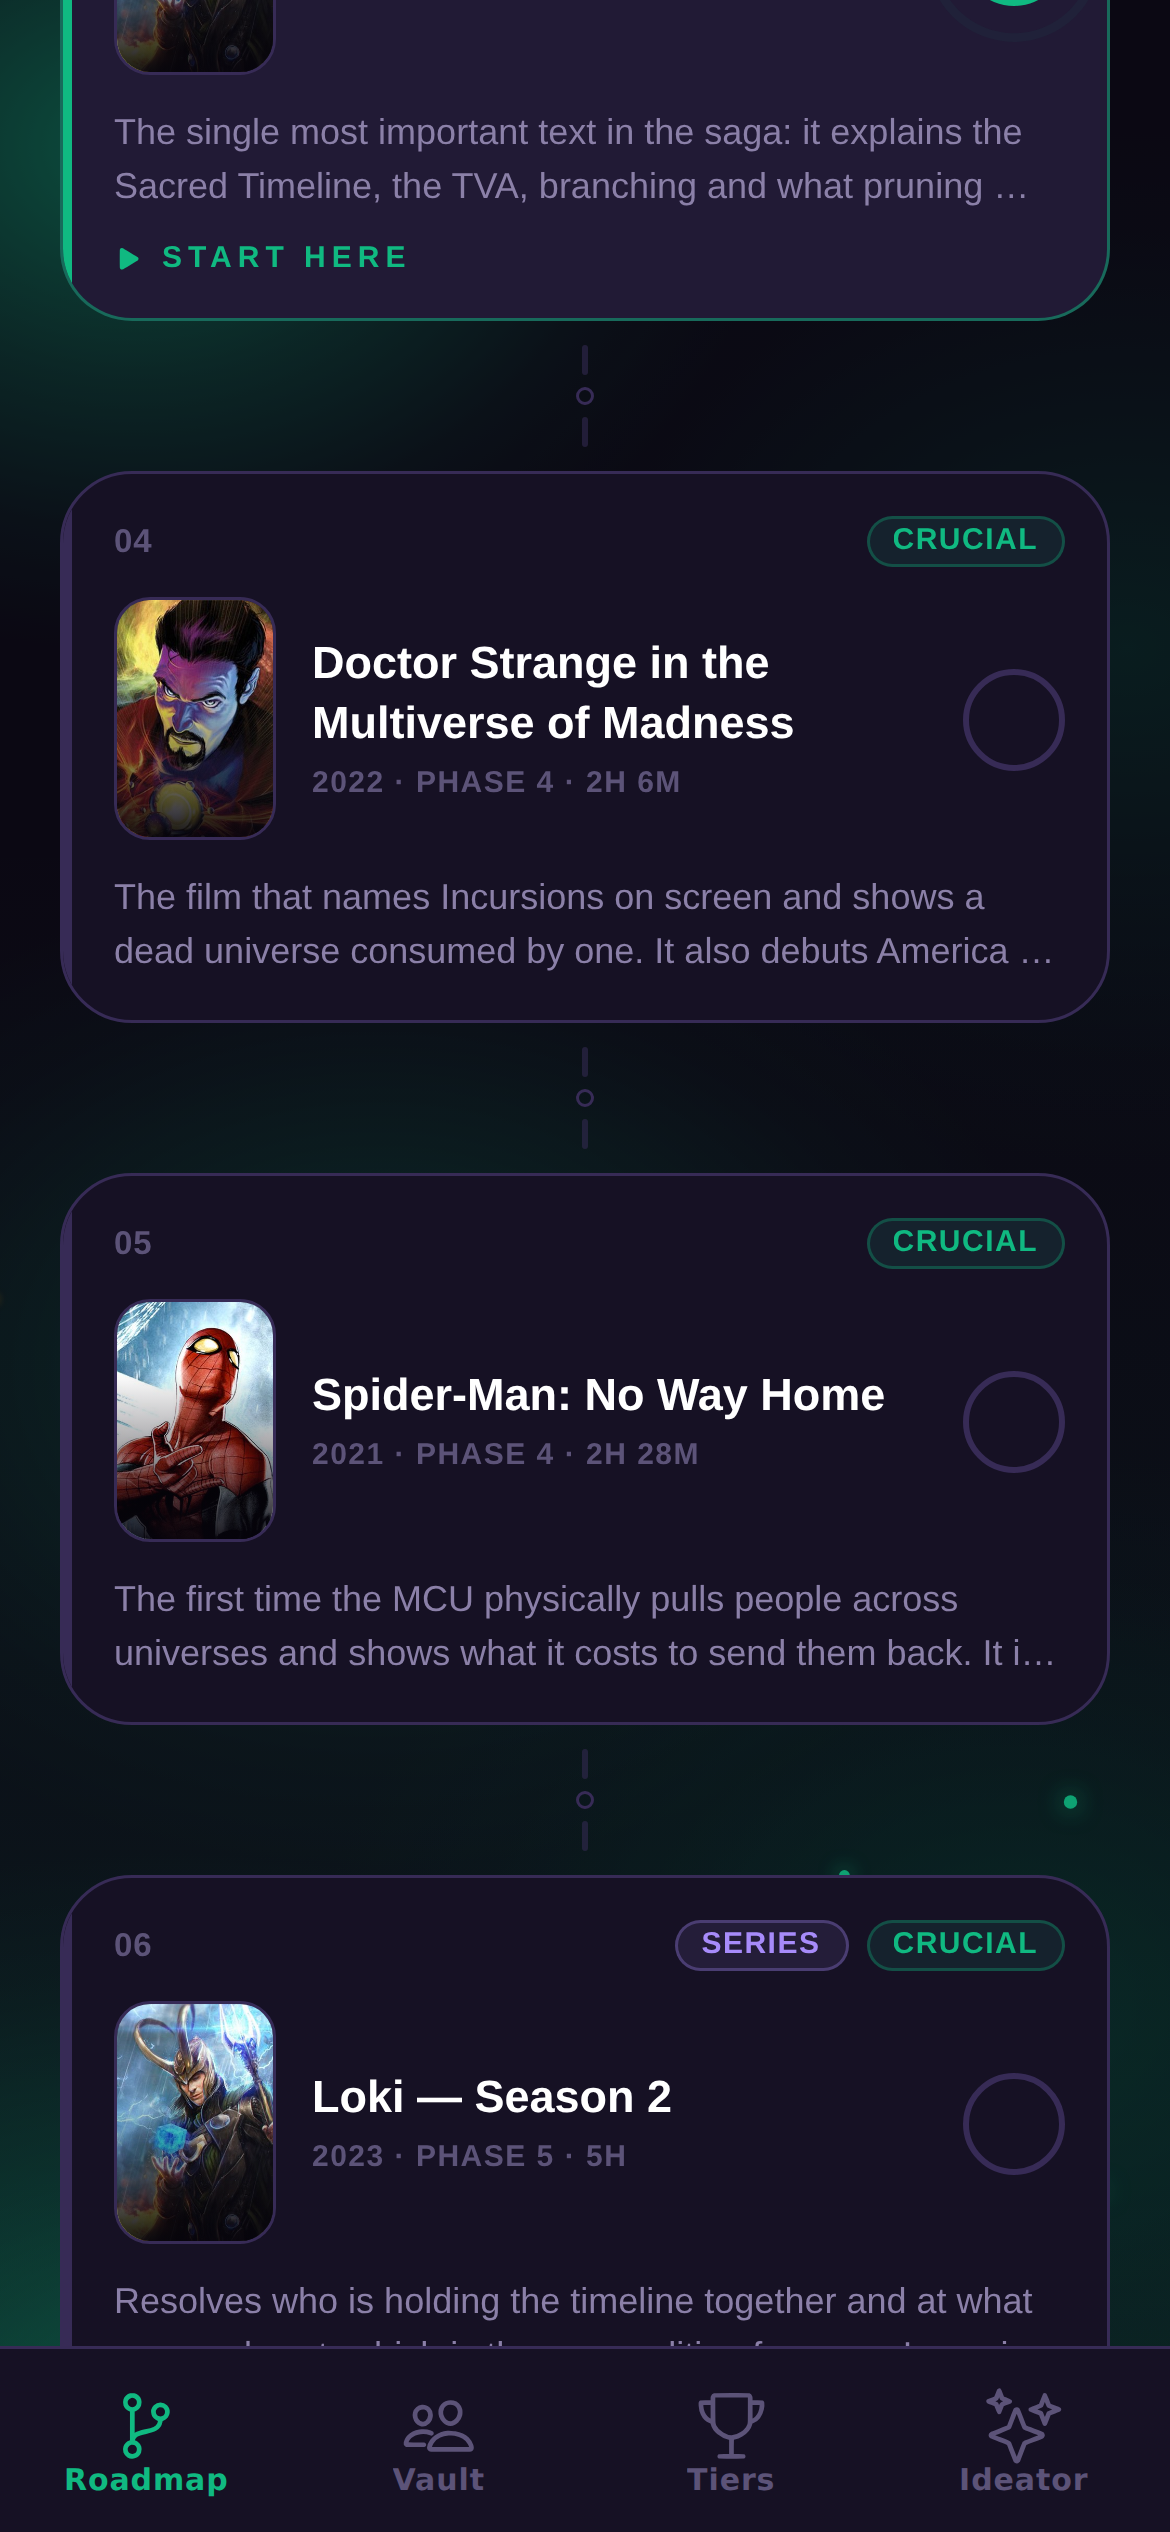
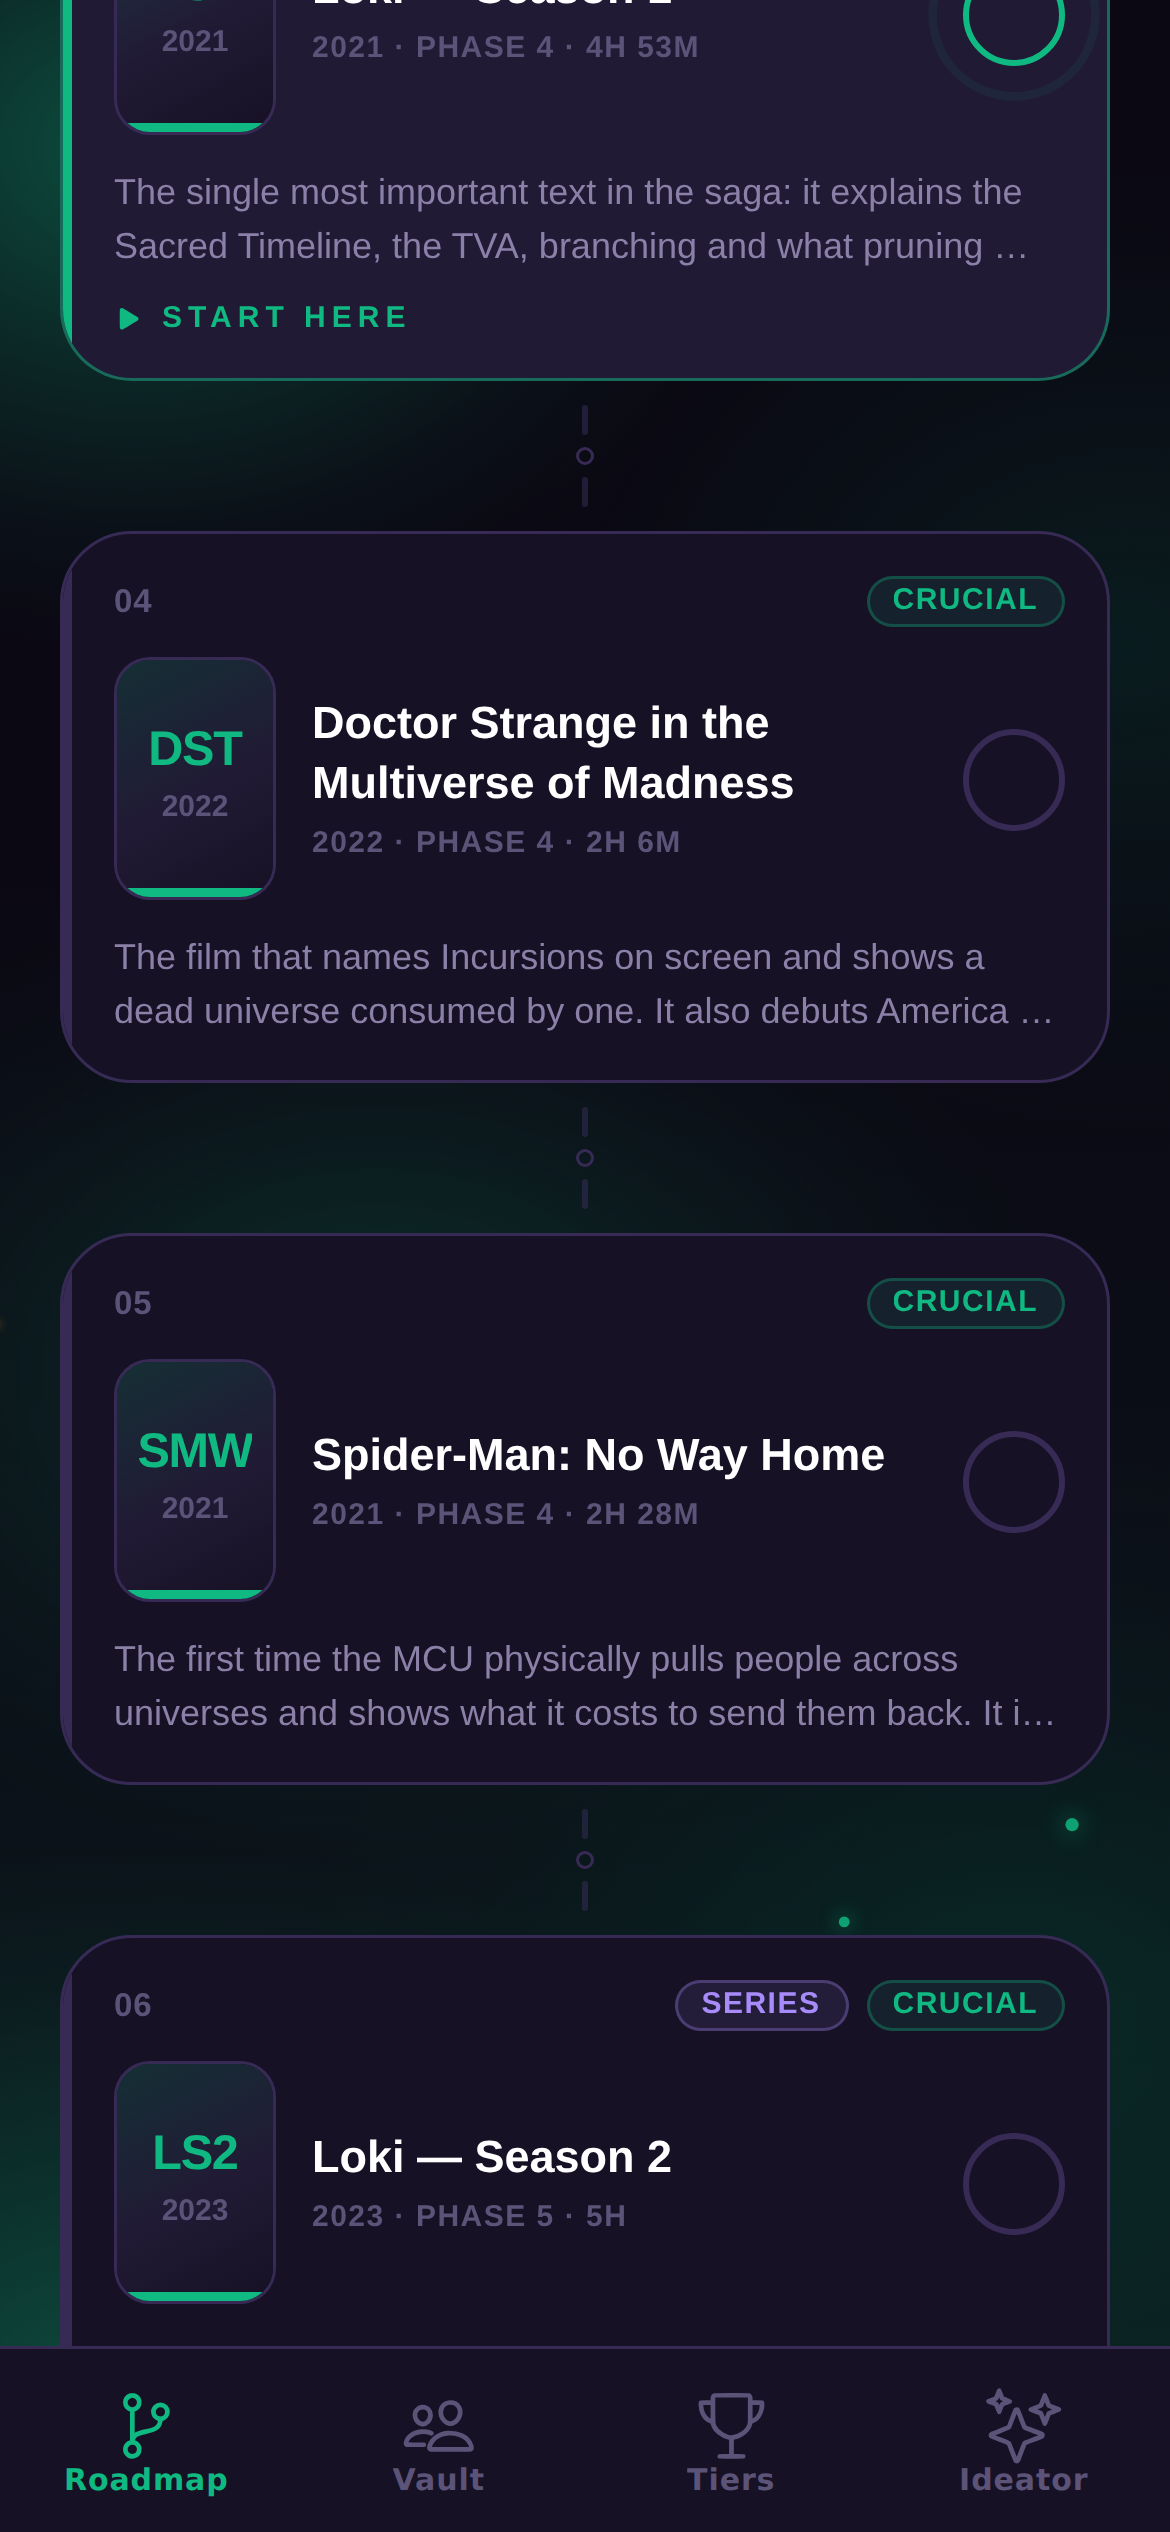
Represent films by real posters only, never comic art
Comic artwork now belongs to the character vault alone. A film is its real
poster or a typographic card — never a character illustration standing in for
one.

- Drop the key-art composite from Poster entirely
- Fallback card is tinted by era (phases 1-3 gold, 4-5 green, 6 crimson, Fox
  legacy violet) so a scrolled feed reads as a spectrum rather than a wall of
  identical grey tiles
- Add a local poster pipeline: drop <catalogue-id>.jpg into
  assets/images/posters/ and run npm run posters, which regenerates the static
  require map Metro needs and reports what is still missing
- Resolution order is now TMDB poster -> local file -> typographic card

This sandbox cannot reach any poster source — TMDB, Wikimedia, Amazon and every
image host are blocked by egress policy, and npm carries no poster dataset. Real
posters need either a TMDB key or local files, both documented in
docs/posters.md with the full filename list.

Claude-Session: https://claude.ai/code/session_01TerC8UgTqrSCM8aWWPA9f7

diff --git a/multiverse-doomsday/src/components/common/Poster.tsx b/multiverse-doomsday/src/components/common/Poster.tsx
@@ -2,15 +2,14 @@ import { Image } from 'expo-image';
 import { LinearGradient } from 'expo-linear-gradient';
 import { Text, View } from 'react-native';
 
-import { characterPortrait } from '@/data/characterImages';
-import { MOVIE_CATALOGUE } from '@/hooks/useRoadmapStore';
+import { localPoster } from '@/data/posterImages';
 import { usePalette } from '@/hooks/useTheme';
 import { useTmdbDetails } from '@/hooks/useTMDB';
 import { posterUrl } from '@/utils/imageHelper';
 import type { MovieItem } from '@/types';
 
 interface PosterProps {
-  movie: Pick<MovieItem, 'id' | 'title' | 'tmdbId' | 'type' | 'releaseYear'>;
+  movie: Pick<MovieItem, 'id' | 'title' | 'tmdbId' | 'type' | 'releaseYear' | 'phase'>;
   width: number;
   /** Poster aspect is 2:3; override for square thumbnails. */
   aspectRatio?: number;
@@ -21,7 +20,7 @@ interface PosterProps {
   hideCaption?: boolean;
 }
 
-/** "Avengers: Infinity War" → "AIW". Keeps narrow art legible. */
+/** "Avengers: Infinity War" → "AIW". Keeps narrow cards legible. */
 function acronym(title: string): string {
   const words = title
     .replace(/[^A-Za-z0-9\s]/g, ' ')
@@ -34,24 +33,22 @@ function acronym(title: string): string {
     .join('');
 }
 
-/** The face of the film: its first key character that ships with a portrait. */
-function keyArtFor(movieId: string) {
-  const entry = MOVIE_CATALOGUE.find((item) => item.id === movieId);
-  for (const characterId of entry?.keyCharacterIds ?? []) {
-    const portrait = characterPortrait(characterId);
-    if (portrait) return portrait;
-  }
-  return undefined;
+/** Each era gets its own tint, so a scrolled feed reads as a spectrum. */
+function eraTint(phase: number | string, palette: ReturnType<typeof usePalette>): string {
+  if (typeof phase === 'string') return palette.violet;
+  if (phase <= 3) return palette.gold;
+  if (phase <= 5) return palette.accent;
+  return palette.crimson;
 }
 
 /**
  * Poster art, in order of preference:
- *   1. the real TMDB poster, when an API key is configured
- *   2. bundled key art — the film's headline character under a title plate
- *   3. a typographic card
+ *   1. the real TMDB poster, once an API key is configured
+ *   2. a local poster dropped into assets/images/posters/ (see npm run posters)
+ *   3. a typographic card tinted by era
  *
- * Everything below the first rung works offline, so the app is never full of
- * empty rectangles.
+ * Only real posters ever represent a film — the comic art in this app belongs
+ * to the character vault, not to the movies.
  */
 export function Poster({
   movie,
@@ -63,90 +60,65 @@ export function Poster({
 }: PosterProps) {
   const palette = usePalette();
   const { data } = useTmdbDetails(disableFetch ? undefined : movie);
-  const uri = posterUrl(data?.posterPath, 'w342');
-  const keyArt = keyArtFor(movie.id);
+  const remoteUri = posterUrl(data?.posterPath, 'w342');
+  const bundled = localPoster(movie.id);
   const height = width / aspectRatio;
   const isNarrow = width < 76;
+  const tint = eraTint(movie.phase, palette);
 
-  return (
-    <View
-      className={`overflow-hidden border border-line bg-surface-raised ${rounded}`}
-      style={{ width, height }}
-    >
-      {uri ? (
+  if (remoteUri || bundled) {
+    return (
+      <View
+        className={`overflow-hidden border border-line bg-surface-raised ${rounded}`}
+        style={{ width, height }}
+      >
         <Image
-          source={{ uri }}
+          source={remoteUri ? { uri: remoteUri } : bundled}
           style={{ width: '100%', height: '100%' }}
           contentFit="cover"
           transition={220}
           cachePolicy="disk"
         />
-      ) : keyArt ? (
-        <View style={{ flex: 1 }}>
-          <Image
-            source={keyArt}
-            style={{ width: '100%', height: '100%' }}
-            contentFit="cover"
-            contentPosition="top center"
-            transition={180}
-          />
+      </View>
+    );
+  }
 
-          {/* Ink wash so the plate reads over any artwork */}
-          <LinearGradient
-            colors={['transparent', 'rgba(6,4,12,0.35)', 'rgba(6,4,12,0.92)']}
-            locations={[0.3, 0.6, 1]}
-            style={{ position: 'absolute', left: 0, right: 0, bottom: 0, top: 0 }}
-          />
+  return (
+    <View
+      className={`overflow-hidden border border-line ${rounded}`}
+      style={{ width, height }}
+    >
+      <LinearGradient
+        colors={[`${tint}${palette.isDark ? '2E' : '1A'}`, palette.raised, palette.surface]}
+        locations={[0, 0.55, 1]}
+        start={{ x: 0.1, y: 0 }}
+        end={{ x: 0.9, y: 1 }}
+        style={{ flex: 1 }}
+      >
+        <View className="flex-1 items-center justify-center px-1.5">
+          <Text
+            className="font-black tracking-tight"
+            style={{ fontSize: Math.max(15, width * 0.3), color: tint }}
+            numberOfLines={1}
+          >
+            {acronym(movie.title)}
+          </Text>
 
-          {!hideCaption ? (
-            <View className="absolute inset-x-0 bottom-0 p-1.5">
-              {isNarrow ? (
-                <Text
-                  className="text-center font-black tracking-wider text-white"
-                  style={{ fontSize: Math.max(11, width * 0.22) }}
-                  numberOfLines={1}
-                >
-                  {acronym(movie.title)}
-                </Text>
-              ) : (
-                <Text
-                  className="text-[10px] font-black uppercase leading-tight tracking-wide text-white"
-                  numberOfLines={3}
-                >
-                  {movie.title}
-                </Text>
-              )}
-              <Text
-                className="mt-0.5 text-center text-2xs font-bold"
-                style={{ color: palette.accent, textAlign: isNarrow ? 'center' : 'left' }}
-              >
-                {movie.releaseYear}
-              </Text>
-            </View>
+          {!isNarrow && !hideCaption ? (
+            <Text
+              className="mt-1.5 text-center text-[10px] font-bold uppercase leading-tight tracking-wide text-ink-soft"
+              numberOfLines={3}
+            >
+              {movie.title}
+            </Text>
           ) : null}
+
+          <Text className="mt-1 text-2xs font-bold text-ink-faint">{movie.releaseYear}</Text>
         </View>
-      ) : (
-        <LinearGradient colors={palette.gradient} style={{ flex: 1 }}>
-          <View className="flex-1 items-center justify-center p-2">
-            {isNarrow ? (
-              <Text
-                className="font-black tracking-wider text-ink-soft"
-                style={{ fontSize: Math.max(13, width * 0.3) }}
-              >
-                {acronym(movie.title)}
-              </Text>
-            ) : (
-              <Text
-                className="text-center text-[11px] font-bold uppercase leading-tight tracking-wider text-ink-soft"
-                numberOfLines={4}
-              >
-                {movie.title}
-              </Text>
-            )}
-            <Text className="mt-1 text-2xs font-semibold text-ink-faint">{movie.releaseYear}</Text>
-          </View>
-        </LinearGradient>
-      )}
+
+        {/* Era bar along the foot of the card */}
+        <View style={{ height: 3, backgroundColor: tint }} />
+      </LinearGradient>
     </View>
   );
 }

diff --git a/multiverse-doomsday/src/data/posterImages.ts b/multiverse-doomsday/src/data/posterImages.ts
@@ -1,0 +1,19 @@
+import type { ImageSourcePropType } from 'react-native';
+
+/**
+ * Local movie posters, keyed by catalogue id.
+ *
+ * GENERATED by scripts/generate-poster-map.mjs — do not edit by hand. Drop a
+ * poster named after its catalogue id into assets/images/posters/ and run
+ * `npm run posters`.
+ *
+ * A TMDB key takes precedence over these; without either, the poster falls back
+ * to a typographic card.
+ */
+export const LOCAL_POSTERS: Record<string, ImageSourcePropType> = {
+
+};
+
+export function localPoster(movieId: string): ImageSourcePropType | undefined {
+  return LOCAL_POSTERS[movieId];
+}

diff --git a/multiverse-doomsday/docs/posters.md b/multiverse-doomsday/docs/posters.md
@@ -1,0 +1,86 @@
+# Adding real movie posters
+
+The app ships **no movie posters**. Comic artwork is used for characters only —
+a film is represented by its real poster or by a typographic card, never by a
+character illustration.
+
+There are two ways to get real posters in, and they can be combined.
+
+## 1. A TMDB key (recommended)
+
+One key covers all 43 titles, and also unlocks backdrops, synopses,
+country-specific streaming links and actor headshots in the vault.
+
+1. Create a free account at <https://www.themoviedb.org/signup>
+2. Request a v3 API key: Settings → API → *Create* → Developer
+3. Add it to `multiverse-doomsday/.env`:
+
+```
+EXPO_PUBLIC_TMDB_API_KEY=your_key_here
+EXPO_PUBLIC_TMDB_REGION=IN
+```
+
+4. Restart the dev server (`npx expo start -c`)
+
+Posters appear immediately, and `resolveTmdbId()` verifies each bundled id
+against the title and release year — so a wrong id fixes itself rather than
+showing the wrong film.
+
+## 2. Local poster files
+
+Useful offline, or to override TMDB with a specific poster you prefer.
+
+1. Save the poster as `assets/images/posters/<id>.jpg` (`.png` and `.webp` work too)
+2. Run `npm run posters`
+3. Restart the dev server
+
+`npm run posters` regenerates `src/data/posterImages.ts` and prints whatever is
+still missing. Posters look best at 2:3 — 500×750 is plenty.
+
+### Filenames
+
+| File | Title | Year |
+| --- | --- | --- |
+| `iron-man.jpg` | Iron Man | 2008 |
+| `the-avengers.jpg` | The Avengers | 2012 |
+| `age-of-ultron.jpg` | Avengers: Age of Ultron | 2015 |
+| `civil-war.jpg` | Captain America: Civil War | 2016 |
+| `doctor-strange.jpg` | Doctor Strange | 2016 |
+| `thor-ragnarok.jpg` | Thor: Ragnarok | 2017 |
+| `black-panther.jpg` | Black Panther | 2018 |
+| `infinity-war.jpg` | Avengers: Infinity War | 2018 |
+| `endgame.jpg` | Avengers: Endgame | 2019 |
+| `captain-marvel.jpg` | Captain Marvel | 2019 |
+| `far-from-home.jpg` | Spider-Man: Far From Home | 2019 |
+| `wandavision.jpg` | WandaVision | 2021 |
+| `falcon-winter-soldier.jpg` | The Falcon and the Winter Soldier | 2021 |
+| `loki-s1.jpg` | Loki — Season 1 | 2021 |
+| `what-if-s1.jpg` | What If...? — Season 1 | 2021 |
+| `shang-chi.jpg` | Shang-Chi and the Legend of the Ten Rings | 2021 |
+| `eternals.jpg` | Eternals | 2021 |
+| `hawkeye.jpg` | Hawkeye | 2021 |
+| `moon-knight.jpg` | Moon Knight | 2022 |
+| `multiverse-of-madness.jpg` | Doctor Strange in the Multiverse of Madness | 2022 |
+| `ms-marvel.jpg` | Ms. Marvel | 2022 |
+| `she-hulk.jpg` | She-Hulk: Attorney at Law | 2022 |
+| `wakanda-forever.jpg` | Black Panther: Wakanda Forever | 2022 |
+| `no-way-home.jpg` | Spider-Man: No Way Home | 2021 |
+| `quantumania.jpg` | Ant-Man and the Wasp: Quantumania | 2023 |
+| `guardians-vol-3.jpg` | Guardians of the Galaxy Vol. 3 | 2023 |
+| `secret-invasion.jpg` | Secret Invasion | 2023 |
+| `loki-s2.jpg` | Loki — Season 2 | 2023 |
+| `the-marvels.jpg` | The Marvels | 2023 |
+| `echo.jpg` | Echo | 2024 |
+| `deadpool-and-wolverine.jpg` | Deadpool & Wolverine | 2024 |
+| `agatha-all-along.jpg` | Agatha All Along | 2024 |
+| `brave-new-world.jpg` | Captain America: Brave New World | 2025 |
+| `daredevil-born-again.jpg` | Daredevil: Born Again | 2025 |
+| `thunderbolts.jpg` | Thunderbolts* | 2025 |
+| `fantastic-four-first-steps.jpg` | The Fantastic Four: First Steps | 2025 |
+| `x-men-2000.jpg` | X-Men | 2000 |
+| `x2.jpg` | X2: X-Men United | 2003 |
+| `x-men-first-class.jpg` | X-Men: First Class | 2011 |
+| `days-of-future-past.jpg` | X-Men: Days of Future Past | 2014 |
+| `deadpool.jpg` | Deadpool | 2016 |
+| `deadpool-2.jpg` | Deadpool 2 | 2018 |
+| `logan.jpg` | Logan | 2017 |

diff --git a/multiverse-doomsday/README.md b/multiverse-doomsday/README.md
@@ -66,6 +66,12 @@ Without a key nothing errors: posters fall back to typographic cards, portraits
 fall back to generated allegiance emblems, and the stream widget explains how to
 switch it on.
 
+### Adding real posters
+
+The app ships no movie posters. Add a TMDB key for all 43 at once, or drop
+files into `assets/images/posters/` and run `npm run posters`. Full instructions
+and the filename list: [docs/posters.md](docs/posters.md).
+
 ### Scripts
 
 ```bash
@@ -153,8 +159,10 @@ Nothing in the app renders an empty rectangle, with or without a network.
 generated allegiance emblem. 35 of the 45 characters ship with a portrait;
 the rest use the emblem.
 
-**Posters** — real TMDB poster (needs a key) → bundled key art, which composites
-the film's headline character under a title plate → a typographic card.
+**Posters** — real TMDB poster (needs a key) → a local poster file dropped into
+`assets/images/posters/` → a typographic card tinted by era. Comic artwork is
+never used to represent a film; see [docs/posters.md](docs/posters.md) for both
+ways to add real posters.
 
 `src/data/characterImages.ts` is a generated static require map, because Metro
 resolves `require` at build time and cannot take a runtime path.
